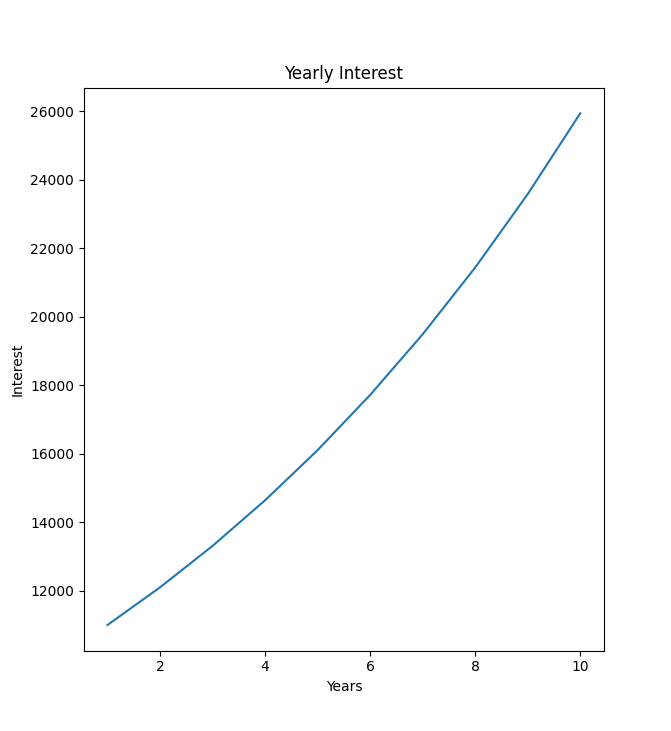
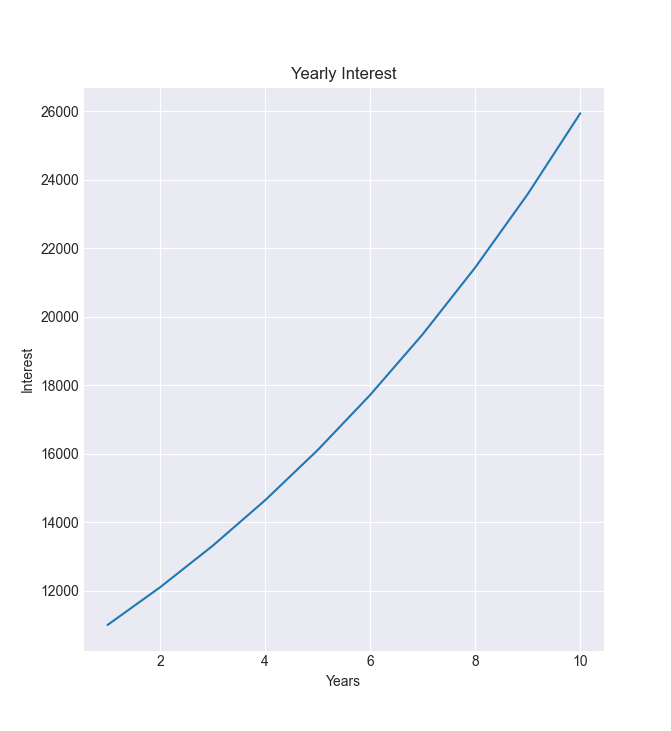
Interest rate calculator done

diff --git a/Interest_Rate_Calculator/app.py b/Interest_Rate_Calculator/app.py
@@ -81,8 +81,12 @@ class Interest_Rate_Calculator(QWidget):
         self.calculate.clicked.connect(self.calculate_btn)
         self.reset.clicked.connect(self.reset_btn)
         self.save.clicked.connect(self.save_btn)
+        self.dark_mode.stateChanged.connect(self.toggle_dark_mode)
 
     def plot_interest(self, years, interests):
+        plt.style.use("seaborn-v0_8-darkgrid")
+        plt.tight_layout()
+        plt.subplot()
         plt.plot(years, interests)
         plt.xlabel("Years")
         plt.ylabel("Interest")
@@ -99,6 +103,9 @@ class Interest_Rate_Calculator(QWidget):
         except ValueError:
             QMessageBox.warning(self, "Warning", "Please enter valid numbers.")
             return
+
+        self.interest_model.clear()
+        self.interest_model.setHorizontalHeaderLabels(["Years", "Interest"])
         total = investment
         for year in range(1, years + 1):
             interest = total * (interest_rate / 100.00)
@@ -106,7 +113,6 @@ class Interest_Rate_Calculator(QWidget):
             item_year = QStandardItem(str(year))
             item_interest = QStandardItem(f"{interest:.2f}")
             self.interest_model.appendRow([item_year, item_interest])
-        self.interest_model.setHorizontalHeaderLabels(["Years", "Interest"])
 
         years = list(range(1, years + 1))
         interests = [
@@ -143,6 +149,46 @@ class Interest_Rate_Calculator(QWidget):
             print(f"ERROR: {e}")
         plt.savefig(os.path.join(save_folder, "interest_chart.png"))
         QMessageBox.information(self, "Information", "Interest data and chart saved")
+
+    def toggle_dark_mode(self):
+        self.apply_style()
+
+    def apply_style(self):
+        self.setStyleSheet(
+            """
+                Interest_Rate_Calculator{
+                    background-color: #f0f0f0;
+                    }
+                
+                QPushButton, QLabel, QLineEdit, QCheckBox{
+                    background-color: #f6f6f6;
+                    color: #111111;
+                }
+                
+                QTreeView{
+                    background-color: #f8f8f8;
+                    color: #000000;
+                }
+                """
+        )
+
+        if self.dark_mode.isChecked():
+            self.setStyleSheet(
+                """
+                Interest_Rate_Calculator{
+                    background-color: #222222;
+                    }
+                
+                QPushButton, QLabel, QLineEdit, QCheckBox{
+                    background-color: #333333;
+                    color: #eeeeee;
+                }
+                QTreeView{
+                    background-color: #444444;
+                    color: #eeeeee;
+                }
+                """
+            )
 
 
 # Execute application
